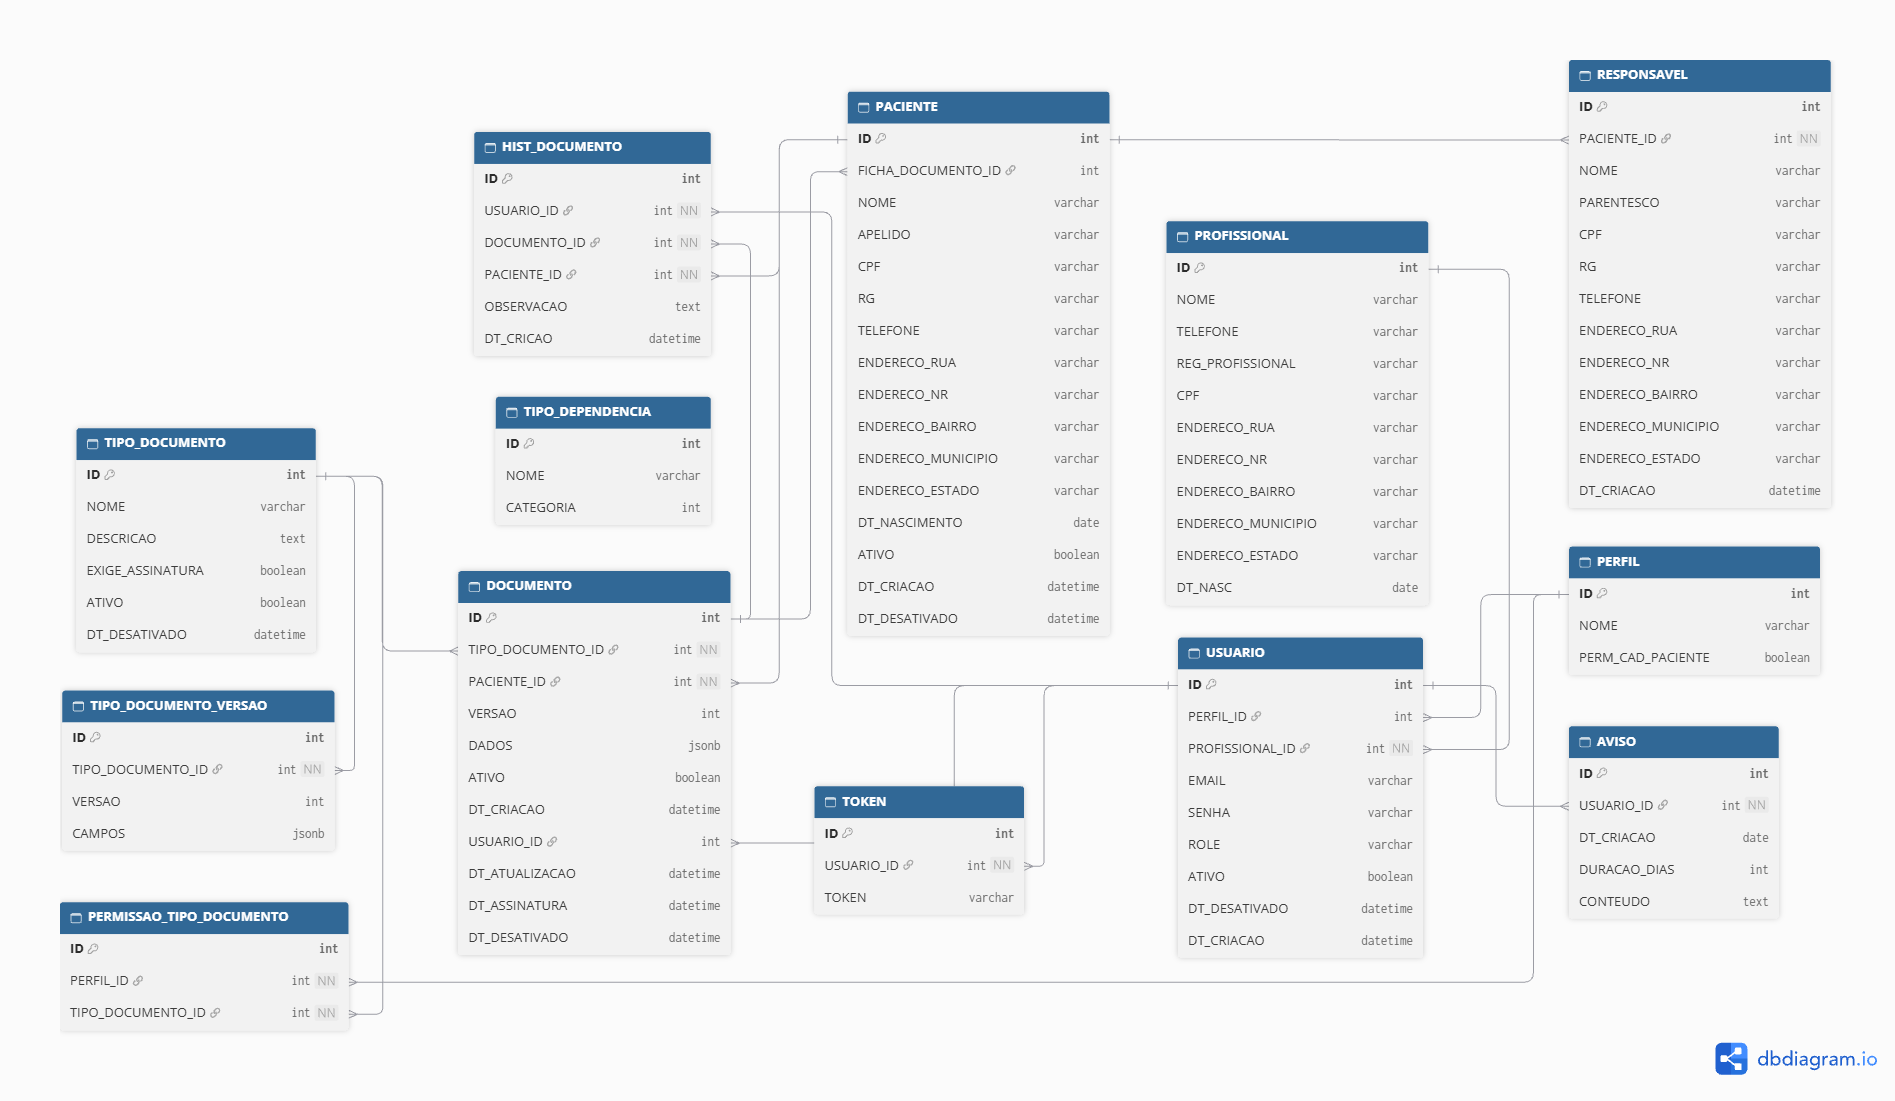
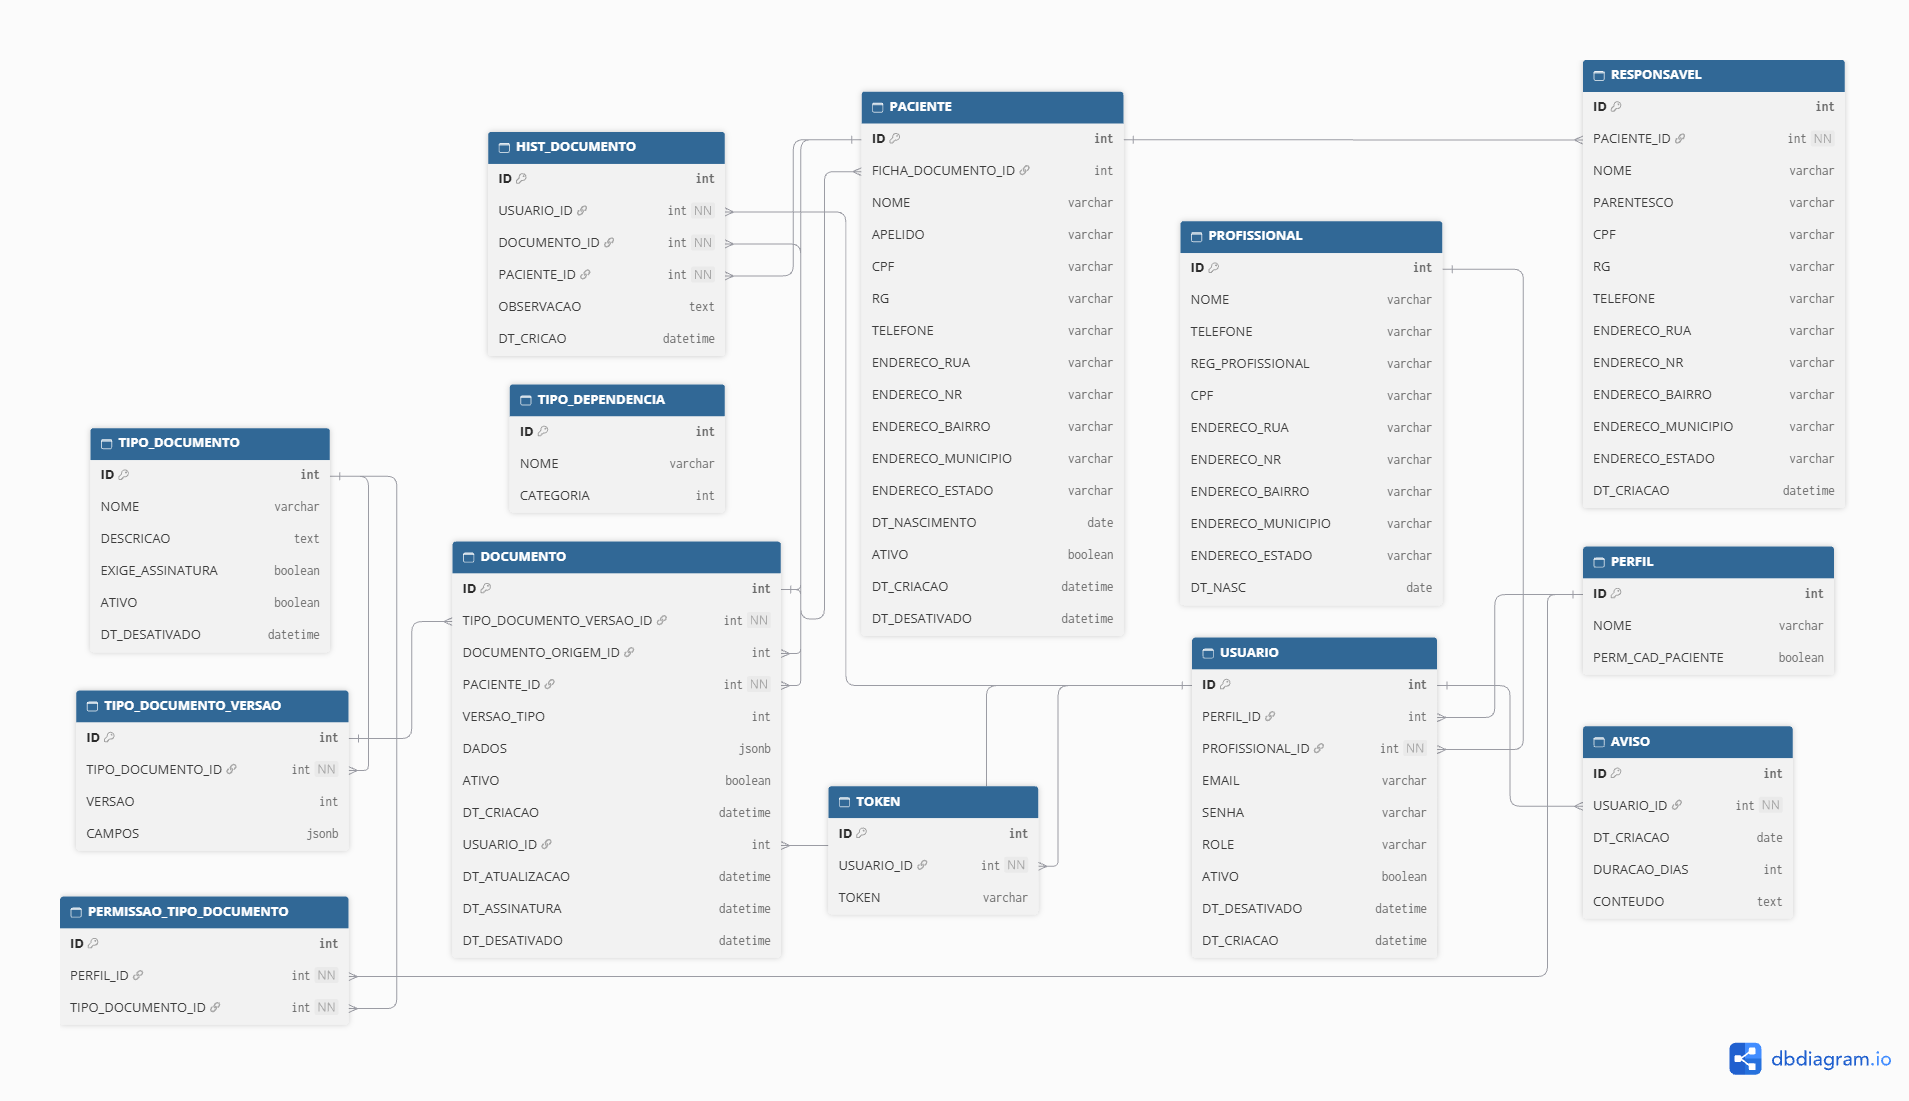
backend: estrutura inicial dos documentos

diff --git a/backend/src/main/java/com/luzdovale/reabilitah/backend/domain/entities/Documento.java b/backend/src/main/java/com/luzdovale/reabilitah/backend/domain/entities/Documento.java
@@ -1,0 +1,43 @@
+package com.luzdovale.reabilitah.backend.domain.entities;
+
+import jakarta.persistence.*;
+import lombok.AllArgsConstructor;
+import lombok.Data;
+import lombok.NoArgsConstructor;
+
+import java.time.LocalDateTime;
+
+@Data
+@NoArgsConstructor
+@AllArgsConstructor
+@Entity
+public class Documento {
+    @Id
+    @GeneratedValue(strategy = GenerationType.IDENTITY)
+    private Long id;
+
+    @ManyToOne
+    @JoinColumn(name = "tipo_documento_versao_id")
+    private TipoDocumentoVersao tipoDocumentoVersao;
+
+    @OneToOne
+    @JoinColumn(name = "documento_origem_id")
+    private Documento documentoOrigem;
+
+    @ManyToOne
+    @JoinColumn(name = "paciente_id")
+    private Paciente paciente;
+
+    @ManyToOne
+    @JoinColumn(name = "usuario_id")
+    private Usuario usuario;
+
+    private String observacao;
+    private String dados;
+
+    private boolean ativo = true;
+    private LocalDateTime dtCriacao = LocalDateTime.now();
+    private LocalDateTime dtAtualizacao;
+    private LocalDateTime dtDesativado;
+
+}

diff --git a/backend/src/main/java/com/luzdovale/reabilitah/backend/domain/entities/TipoDocumento.java b/backend/src/main/java/com/luzdovale/reabilitah/backend/domain/entities/TipoDocumento.java
@@ -1,0 +1,27 @@
+package com.luzdovale.reabilitah.backend.domain.entities;
+
+import jakarta.persistence.Entity;
+import jakarta.persistence.GeneratedValue;
+import jakarta.persistence.GenerationType;
+import jakarta.persistence.Id;
+import lombok.AllArgsConstructor;
+import lombok.Data;
+import lombok.NoArgsConstructor;
+
+import java.time.LocalDateTime;
+
+@Data
+@NoArgsConstructor
+@AllArgsConstructor
+@Entity
+public class TipoDocumento {
+    @Id
+    @GeneratedValue(strategy = GenerationType.IDENTITY)
+    private Long id;
+
+    private String nome;
+    private String descricao;
+    private boolean exigeAssinatura = false;
+    private boolean ativo = true;
+    private LocalDateTime dtDesativado;
+}

diff --git a/backend/src/main/java/com/luzdovale/reabilitah/backend/domain/repository/DocumentoRepository.java b/backend/src/main/java/com/luzdovale/reabilitah/backend/domain/repository/DocumentoRepository.java
@@ -1,0 +1,15 @@
+package com.luzdovale.reabilitah.backend.domain.repository;
+
+import com.luzdovale.reabilitah.backend.domain.entities.Documento;
+import com.luzdovale.reabilitah.backend.domain.entities.Paciente;
+import com.luzdovale.reabilitah.backend.domain.entities.Usuario;
+import org.springframework.data.jpa.repository.JpaRepository;
+import org.springframework.stereotype.Repository;
+
+import java.util.List;
+
+@Repository
+public interface DocumentoRepository extends JpaRepository<Documento, Long> {
+    List<Documento> findByPaciente(Paciente paciente);
+    List<Documento> findByPacienteAndUsuario(Paciente paciente, Usuario criadoPor);
+}

diff --git a/backend/src/main/java/com/luzdovale/reabilitah/backend/domain/entities/TipoDocumentoVersao.java b/backend/src/main/java/com/luzdovale/reabilitah/backend/domain/entities/TipoDocumentoVersao.java
@@ -1,0 +1,26 @@
+package com.luzdovale.reabilitah.backend.domain.entities;
+
+import jakarta.persistence.*;
+import lombok.AllArgsConstructor;
+import lombok.Data;
+import lombok.NoArgsConstructor;
+
+import java.time.LocalDateTime;
+
+@Data
+@NoArgsConstructor
+@AllArgsConstructor
+@Entity
+public class TipoDocumentoVersao {
+    @Id
+    @GeneratedValue(strategy = GenerationType.IDENTITY)
+    private Long id;
+
+    @ManyToOne
+    @JoinColumn(name = "tipo_documento_id")
+    private TipoDocumento tipoDocumento;
+
+    private int versao;
+    private String campos = "{}";
+    private LocalDateTime dtCriacao;
+}

diff --git a/backend/src/main/java/com/luzdovale/reabilitah/backend/domain/repository/TipoDocumentoVersaoRepository.java b/backend/src/main/java/com/luzdovale/reabilitah/backend/domain/repository/TipoDocumentoVersaoRepository.java
@@ -1,0 +1,9 @@
+package com.luzdovale.reabilitah.backend.domain.repository;
+
+import com.luzdovale.reabilitah.backend.domain.entities.TipoDocumentoVersao;
+import org.springframework.data.jpa.repository.JpaRepository;
+import org.springframework.stereotype.Repository;
+
+@Repository
+public interface TipoDocumentoVersaoRepository extends JpaRepository<TipoDocumentoVersao, Long> {
+}

diff --git a/backend/src/main/java/com/luzdovale/reabilitah/backend/domain/repository/TipoDocumentoRepository.java b/backend/src/main/java/com/luzdovale/reabilitah/backend/domain/repository/TipoDocumentoRepository.java
@@ -1,0 +1,10 @@
+package com.luzdovale.reabilitah.backend.domain.repository;
+
+import com.luzdovale.reabilitah.backend.domain.entities.TipoDocumento;
+import org.springframework.data.jpa.repository.JpaRepository;
+import org.springframework.stereotype.Repository;
+
+@Repository
+public interface TipoDocumentoRepository extends JpaRepository<TipoDocumento, Long> {
+
+}
